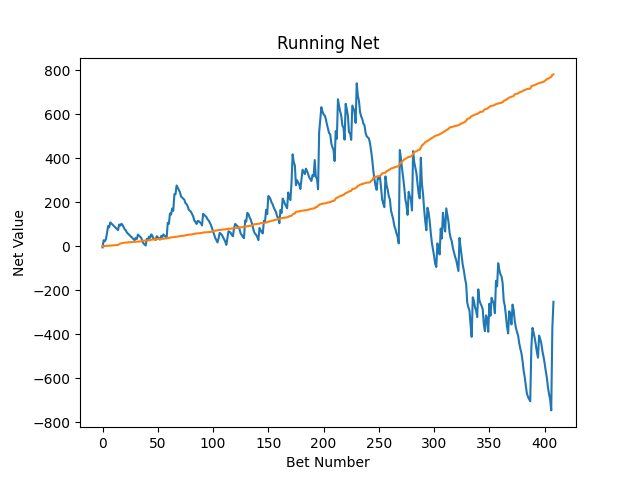
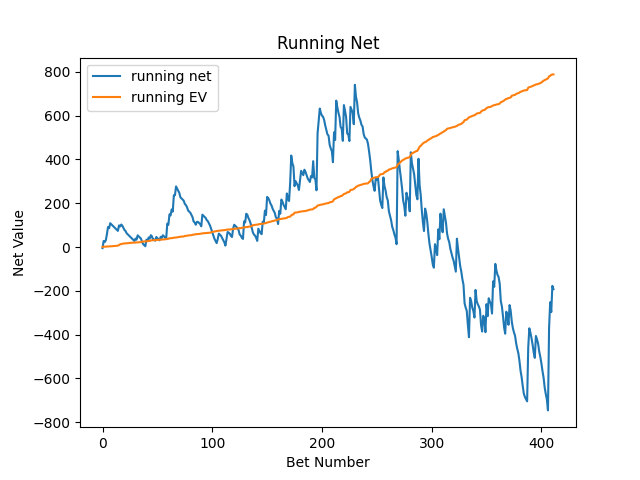
new graphs and todo

diff --git a/website/templates/graphs.html b/website/templates/graphs.html
@@ -12,8 +12,13 @@
             <td>
                 <img src="../static/graph2.png">
             </td>
+        </tr>
+        <tr>
             <td>
                 <img src="../static/graph3.png">
+            </td>
+            <td>
+                <img src="../static/graph4.png">
             </td>
         </tr>
     </table>

diff --git a/tools/bet_history.py b/tools/bet_history.py
@@ -1048,6 +1048,16 @@ def refresh_graphs():
     bets_won_800_plus = 0
     bets_lost_800_plus = 0
 
+    net_negative = 0
+    net_100_200 = 0
+    net_200_300 = 0
+    net_300_400 = 0
+    net_400_500 = 0
+    net_500_600 = 0
+    net_600_700 = 0
+    net_700_800 = 0
+    net_800_plus = 0
+
     net_arr = []
     ev_net_arr = []
     constant_bet_arr = []
@@ -1073,22 +1083,31 @@ def refresh_graphs():
                 match odds:
                     case x if odds<0:
                         bets_won_negative += 1
+                        net_negative += bet['net']
                     case x if odds<200:
                         bets_won_100_200 += 1
+                        net_100_200 += bet['net']
                     case x if odds<300:
                         bets_won_200_300 += 1
+                        net_200_300 += bet['net']
                     case x if odds<400:
                         bets_won_300_400 += 1
+                        net_300_400 += bet['net']
                     case x if odds<500:
                         bets_won_400_500 += 1
+                        net_400_500 += bet['net']
                     case x if odds<600:
                         bets_won_500_600 += 1
+                        net_500_600 += bet['net']
                     case x if odds<700:
                         bets_won_600_700 += 1
+                        net_600_700 += bet['net']
                     case x if odds<800:
                         bets_won_700_800 += 1
+                        net_700_800 += bet['net']
                     case x if odds>=800:
                         bets_won_800_plus += 1
+                        net_800_plus += bet['net']
                     case _:
                         print("not found")
 
@@ -1118,25 +1137,34 @@ def refresh_graphs():
 
             this_bet_odds = bet['odds']
 
-            match odds:
+            match this_bet_odds:
                 case x if this_bet_odds<0:
                     bets_lost_negative += 1
+                    net_negative += bet['net']
                 case x if this_bet_odds<200:
                     bets_lost_100_200 += 1
+                    net_100_200 += bet['net']
                 case x if this_bet_odds<300:
                     bets_lost_200_300 += 1
+                    net_200_300 += bet['net']
                 case x if this_bet_odds<400:
                     bets_lost_300_400 += 1
+                    net_300_400 += bet['net']
                 case x if this_bet_odds<500:
                     bets_lost_400_500 += 1
+                    net_400_500 += bet['net']
                 case x if this_bet_odds<600:
                     bets_lost_500_600 += 1
+                    net_500_600 += bet['net']
                 case x if this_bet_odds<700:
                     bets_lost_600_700 += 1
+                    net_600_700 += bet['net']
                 case x if this_bet_odds<800:
                     bets_lost_700_800 += 1
+                    net_700_800 += bet['net']
                 case x if this_bet_odds>=800:
                     bets_lost_800_plus += 1
+                    net_800_plus += bet['net']
                 case _:
                     print("not found")
         else:
@@ -1154,7 +1182,7 @@ def refresh_graphs():
     plt.title("Running Net")
     plt.xlabel("Bet Number")
     plt.ylabel("Net Value")
-    #plt.savefig("website/static/graph1.png")
+    plt.legend(["running net", "running EV"])
     plt.savefig(os.path.join(STATIC_PATH, "graph1.png"))
     plt.clf()
 
@@ -1164,12 +1192,13 @@ def refresh_graphs():
     plt.title("Bet Size $5")
     plt.xlabel("Bet Number")
     plt.ylabel("Net Value")
+    plt.legend(["running net", "running EV"])
     #plt.savefig("website/static/graph2.png")
     plt.savefig(os.path.join(STATIC_PATH, "graph2.png"))
     plt.clf()
 
 
-    negative_win_percentage = bets_won_negative/(bets_won_negative+bets_lost_negative)
+    negative_win_percentage = bets_won_negative/(bets_won_negative+bets_lost_negative) if (bets_won_negative+bets_lost_negative)>0 else 0
     odds_100_200_win_percentage = bets_won_100_200/(bets_won_100_200+bets_lost_100_200)
     odds_200_300_win_percentage = bets_won_200_300/(bets_won_200_300+bets_lost_200_300)
     odds_300_400_win_percentage = bets_won_300_400/(bets_won_300_400+bets_lost_300_400)
@@ -1180,9 +1209,11 @@ def refresh_graphs():
     odds_800_plus_win_percentage = bets_won_800_plus/(bets_won_800_plus+bets_lost_800_plus)
     odds_categories = ['<0', '100-200', '200-300', '300-400', '400-500', '500-600', '600-700', '700-800', '800+']
 
-    sns.barplot(x=odds_categories, y=[negative_win_percentage, odds_100_200_win_percentage, odds_200_300_win_percentage, odds_300_400_win_percentage, odds_400_500_win_percentage, odds_500_600_win_percentage, odds_600_700_win_percentage, odds_700_800_win_percentage, odds_800_plus_win_percentage])
+    sns.barplot(x=odds_categories, y=[negative_win_percentage, odds_100_200_win_percentage, odds_200_300_win_percentage, odds_300_400_win_percentage, odds_400_500_win_percentage, odds_500_600_win_percentage, odds_600_700_win_percentage, odds_700_800_win_percentage, odds_800_plus_win_percentage], 
+                width=0.5)
     plt.title("Win Percentage across Odds Ranges")
     plt.xlabel("Odds Ranges")
+    plt.xticks(rotation=35)
     plt.ylabel("Win Percentage")
     plt.savefig(os.path.join(STATIC_PATH, "graph3.png"))
     plt.clf()
@@ -1190,5 +1221,12 @@ def refresh_graphs():
 
 
 
-
+    sns.barplot(x=odds_categories, y=[net_negative, net_100_200, net_200_300, net_300_400, net_400_500, net_500_600, net_600_700, net_700_800, net_800_plus],
+                width=0.5)
+    plt.title("Net across Odds Ranges")
+    plt.xlabel("Odds Ranges")
+    plt.xticks(rotation=35)
+    plt.ylabel("Net Amount")
+    plt.savefig(os.path.join(STATIC_PATH, "graph4.png"))
+    plt.clf()
 
